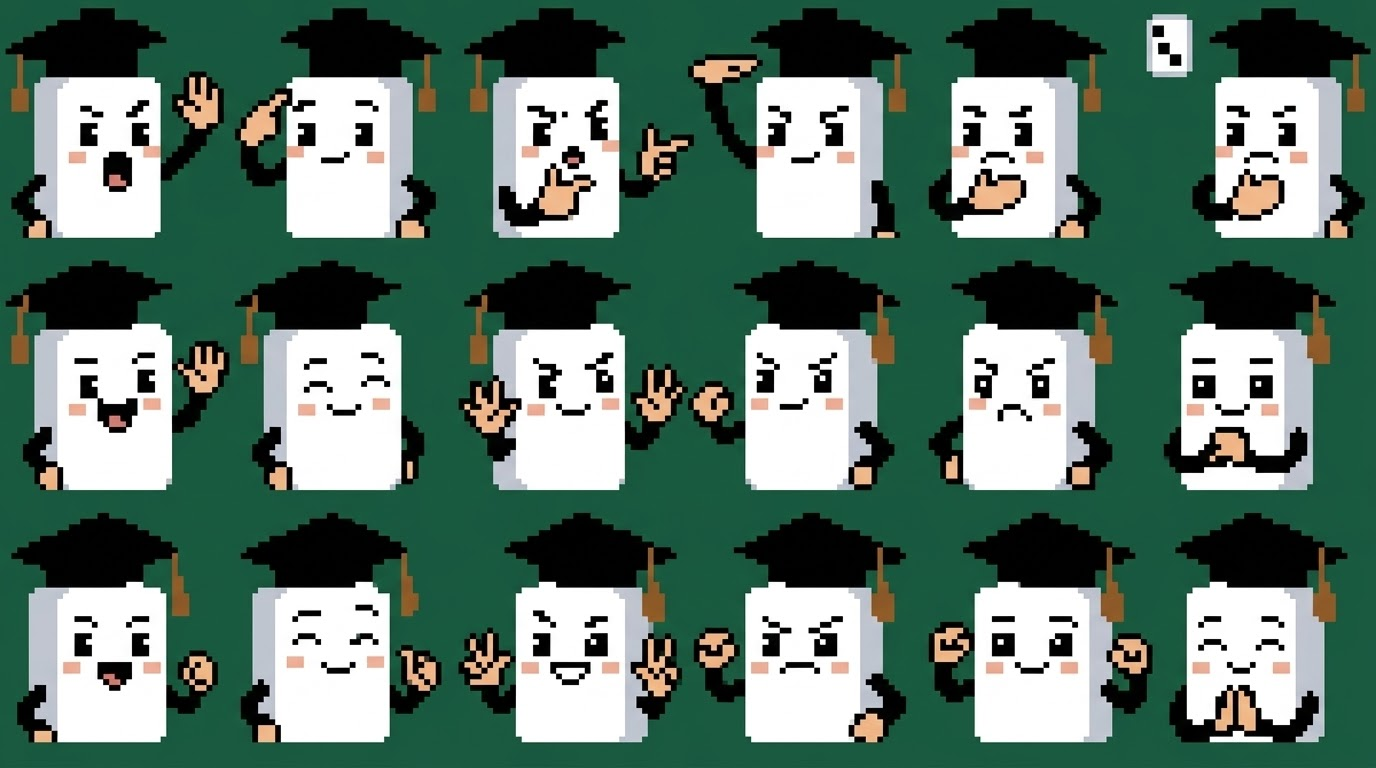
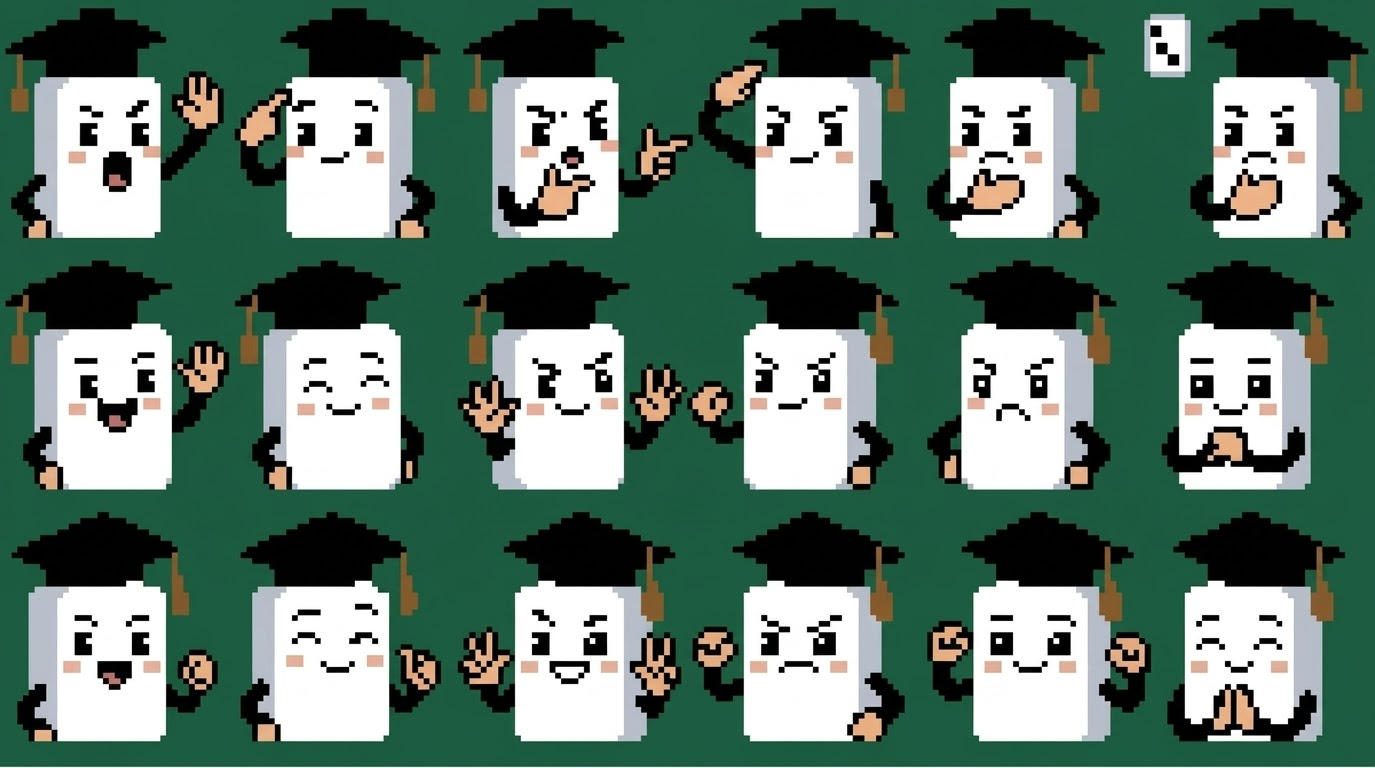
麻雀先生のドット絵: 敬礼ポーズ(1段め4番め)を、右手首を直した絵に差しかえ(OLED用の絵は その1ポーズだけ作りなおし)
Claude-Session: https://claude.ai/code/session_015fwoRN5EZXb2K7SzR6LxUP

diff --git a/mahjong/native/pi/oled_sprites.py b/mahjong/native/pi/oled_sprites.py
@@ -4,7 +4,7 @@ POSES = [
[8 lines of base64/hex data omitted]

diff --git a/mahjong/native/pi/OLED.md b/mahjong/native/pi/OLED.md
@@ -106,3 +106,5 @@ sudo sh native/pi/install_oled.sh
 - 画面の上の 16ドット(2ページぶん)には何も描かず、下の 48ドットだけを使う(`MJOLED_TOP=16` が標準。 `0` にすると上まで使う)。 全部の画面を 48ドットの高さで組みなおした: 麻雀先生の絵(40x48)はそのまま、ずんだもんの顔と姿は 1.5倍(48x42)、衣装の絵(45x47)はそのまま。 右の文字は 16ドットの行が 3つ(または 見出し+5x7の数字の行が 3つ)。
 - 警告の白黒反転も、上の使わない帯は そのまま(反転しない)。
 - 上の 16ドットには、場面に合わせて 背景のアニメーションを出す(`oled_bg.py`): ふだん=ニューヨークの夜景(白黒反転、空は点の細かさ、窓がまたたき、ときどき飛行機)。 電源を入れた回数で 季節がかわり、お正月・クリスマスのころは雪の夜、春は桜。 自分がリーチ中=星空 / 相手がリーチ=雨と稲妻 / 上がり・勝ち・昇段・正解=花火 / クイズ・勉強=宇宙(流れ星・ロケット) / 3分放置=灯台と海。 どれも 細かい点や細い線なので、横線が入っても 質感に見えて 目立たない。 1秒に 6コマで 動く(`MJOLED_FPS`)。 いらないときは `/etc/default/mjoled` に `MJOLED_DECOR=0`。
+
+- 麻雀先生のドット絵(`tools/ui_src/sensei_sheet.jpg`)は、1段め4番めの敬礼ポーズ(右手首が おかしかった)を 直した絵に差しかえた。 OLED 用の絵(`oled_sprites.py`)は、そのポーズ(3番)だけ作りなおした。

diff --git a/mahjong/native/TODO.md b/mahjong/native/TODO.md
@@ -402,3 +402,4 @@
 - [ ] OLED(実機): 上の16ドットを使わない配置で、すじが見えなくなったか。 どの画面も文字・絵が はみ出さず読めるか(ホーム・起動中・対局・クイズ・勉強・終了・警告)。
 - [ ] OLED(実機): 上の16ドットの夜景が 見えて、横線が目立たないか。 気になるなら MJOLED_DECOR=0 で消せる。
 - [ ] OLEDの背景(実機): 上の帯が場面で かわるか(夜景・雪・桜・星空・雨と稲妻・花火・宇宙・灯台と海)。 動きがなめらかか。 CPUを使いすぎていないか(top で mjoled)。
+- [ ] OLED(実機): 麻雀先生の敬礼ポーズ(クイズ・勉強で出る)の右手首が きれいになったか。
